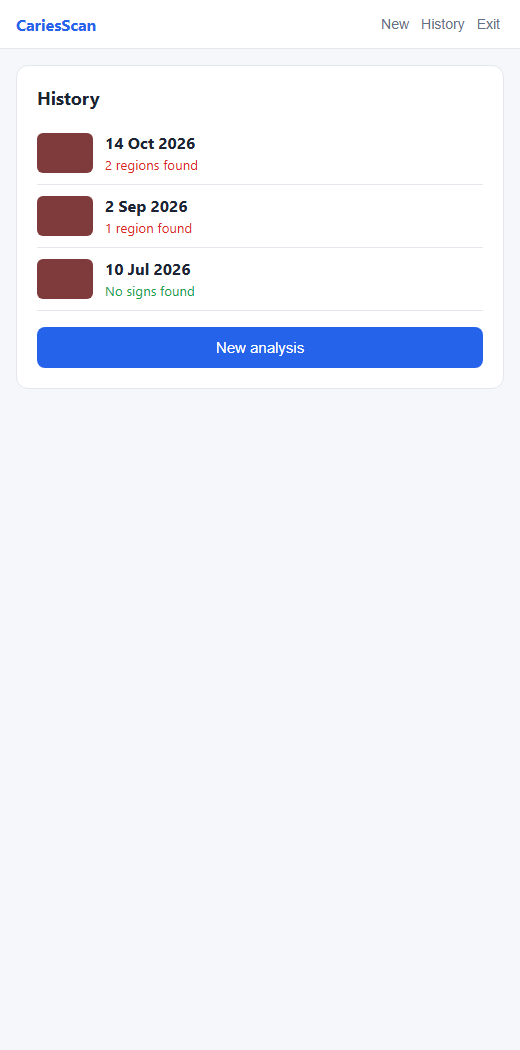
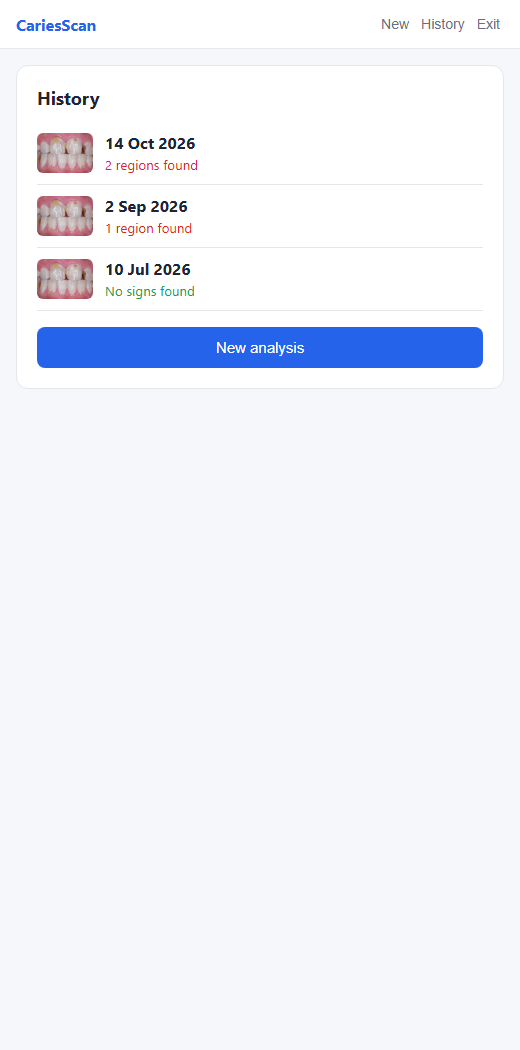
DIP-9: Use a real sample photo on the prototype result screen

Changed region(s): [[0.0615, 0.1219, 0.1846, 0.3048]]

diff --git a/prototype/index.html b/prototype/index.html
@@ -32,10 +32,13 @@
   .badge { display:inline-block; padding:4px 10px; border-radius:999px; font-size:13px; font-weight:600; }
   .badge.warn { background:#fee2e2; color:var(--danger); } .badge.ok { background:#dcfce7; color:var(--ok); }
   .photo { position:relative; border-radius:10px; overflow:hidden; background:#3b1f1f; }
-  .photo svg { display:block; width:100%; height:auto; }
+  .photo img { display:block; width:100%; height:auto; }
+  .photo .box { position:absolute; border:3px solid #ef4444; }
+  .photo .box span { position:absolute; top:-18px; left:-3px; background:#ef4444; color:#fff; font:12px Arial, sans-serif; padding:1px 4px; white-space:nowrap; }
+  .credit { font-size:11px; color:var(--muted); margin-top:4px; }
   .finding { display:flex; justify-content:space-between; padding:8px 0; border-bottom:1px solid var(--border); font-size:14px; }
   .history-item { display:flex; gap:12px; align-items:center; padding:10px 0; border-bottom:1px solid var(--border); cursor:pointer; }
-  .thumb { width:56px; height:40px; border-radius:6px; background:#7f3b3b; flex:none; }
+  .thumb { width:56px; height:40px; border-radius:6px; background:#7f3b3b url(assets/sample-teeth.jpg) center/cover; flex:none; }
   .spinner { width:40px; height:40px; border:4px solid #dbeafe; border-top-color:var(--primary); border-radius:50%;
              margin:24px auto; animation:spin 1s linear infinite; }
   @keyframes spin { to { transform:rotate(360deg); } }
@@ -123,34 +126,19 @@
       <h2>Result · 14 Oct 2026</h2>
       <p><span class="badge warn">Signs of caries found: 2 regions</span></p>
       <div class="photo">
-        <svg viewBox="0 0 400 260" xmlns="http://www.w3.org/2000/svg" aria-label="Teeth photo with marked regions">
-          <rect width="400" height="260" fill="#6b2c2c"/>
-          <g fill="#f4efe6" stroke="#d9cfbf">
-            <rect x="40" y="60" width="44" height="64" rx="10"/><rect x="88" y="56" width="46" height="70" rx="10"/>
-            <rect x="138" y="52" width="58" height="76" rx="12"/><rect x="200" y="52" width="58" height="76" rx="12"/>
-            <rect x="262" y="56" width="46" height="70" rx="10"/><rect x="312" y="60" width="44" height="64" rx="10"/>
-            <rect x="48" y="140" width="42" height="58" rx="10"/><rect x="94" y="142" width="46" height="60" rx="10"/>
-            <rect x="144" y="144" width="52" height="60" rx="10"/><rect x="200" y="144" width="52" height="60" rx="10"/>
-            <rect x="256" y="142" width="46" height="60" rx="10"/><rect x="306" y="140" width="42" height="58" rx="10"/>
-          </g>
-          <circle cx="110" cy="100" r="8" fill="#5b4636"/><circle cx="274" cy="170" r="7" fill="#5b4636"/>
-          <g fill="none" stroke="#ef4444" stroke-width="3">
-            <rect x="96" y="86" width="28" height="28"/><rect x="260" y="156" width="28" height="28"/>
-          </g>
-          <g font-family="Arial" font-size="12" fill="#fff">
-            <rect x="96" y="70" width="40" height="16" fill="#ef4444"/><text x="100" y="82">1 · 87%</text>
-            <rect x="260" y="140" width="40" height="16" fill="#ef4444"/><text x="264" y="152">2 · 71%</text>
-          </g>
-        </svg>
+        <img src="assets/sample-teeth.jpg" alt="Front view of teeth with marked regions">
+        <div class="box" style="left:68%;top:28.8%;width:7%;height:24.4%"><span>1 · 87%</span></div>
+        <div class="box" style="left:31.3%;top:74.4%;width:7.6%;height:15.9%"><span>2 · 71%</span></div>
       </div>
+      <div class="credit">Sample photo: Shaimaa Abdellatif, Wikimedia Commons, CC BY-SA 4.0 (cropped; boxes are illustrative).</div>
       <div style="margin-top:12px">
-        <div class="finding"><span>1 · Upper left, dark spot on chewing surface</span><b>87%</b></div>
-        <div class="finding"><span>2 · Lower right, darkened area near the gum</span><b>71%</b></div>
+        <div class="finding"><span>1 · Upper front teeth, dark cavity between two teeth</span><b>87%</b></div>
+        <div class="finding"><span>2 · Lower front tooth, brown area near the gum</span><b>71%</b></div>
       </div>
     </div>
     <div class="card">
       <h2>What this means</h2>
-      <p>Two areas on your teeth look like possible caries: a dark spot on an upper tooth and a darker area on a lower tooth. Early caries can often be treated simply if it is found in time.</p>
+      <p>Two areas on your teeth look like possible caries: a dark cavity between two upper front teeth and a brown area near the gum on a lower front tooth. Early caries can often be treated simply if it is found in time.</p>
       <p><b>Recommendation:</b> book a check-up with a dentist in the next few weeks and show them this report.</p>
       <div class="notice">This is not a diagnosis. Only a dentist can confirm caries.</div>
       <button class="btn">Download PDF for the dentist</button>

diff --git a/docs/08-prototype.md b/docs/08-prototype.md
@@ -3,7 +3,10 @@
 Clickable prototype: [prototype/index.html](../prototype/index.html) — open the file in a
 browser (works on desktop and at mobile width). Screenshots: [prototype/screens](../prototype/screens).
 
-The prototype is a mock-up: data and the photo are illustrative, no backend is called.
+The prototype is a mock-up: data are illustrative and no backend is called. The sample photo on the
+result screen is a real intra-oral photograph by Shaimaa Abdellatif, "Dental decay.jpg", Wikimedia
+Commons, licensed CC BY-SA 4.0 (cropped; the marked boxes are illustrative, not model output):
+https://commons.wikimedia.org/wiki/File:Dental_decay.jpg
 
 ## 8.1 Key user scenarios
 
